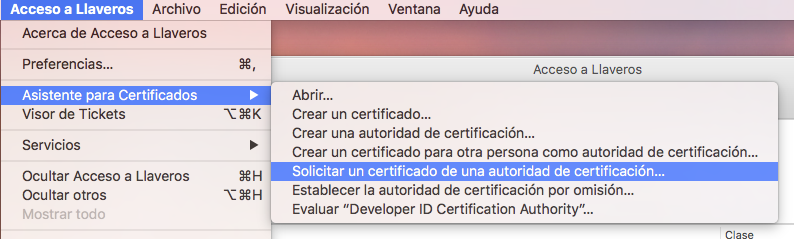
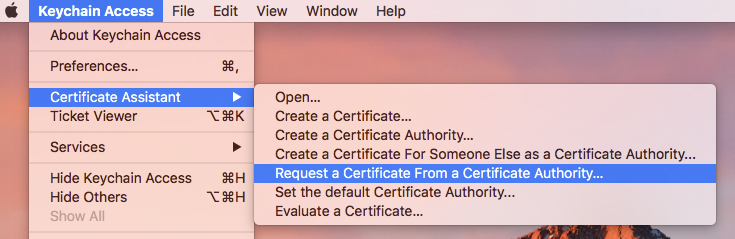
added api_key info and changed images to english version

diff --git a/tutorials/ios/setup.rst b/tutorials/ios/setup.rst
@@ -79,7 +79,7 @@ Replace the contents of NotificationService with:
 
     @end
 
-Replace ´api_key´ with your Api Key
+Replace `api_key` with your Api Key
 
 .. note::
 
@@ -114,7 +114,10 @@ Configure the application
 
     #import <TendartsSDK.h>
     ...
-    [TendartsSDK initTendartsUsingLaunchOptions:launchOptions withAPIKey:@"your API Key" andConfig:nil];
+    [TendartsSDK initTendartsUsingLaunchOptions:launchOptions withAPIKey:@"api_key" andConfig:nil];
+
+Replace `api_key` with your Api Key
+
 
 .. note::
 
